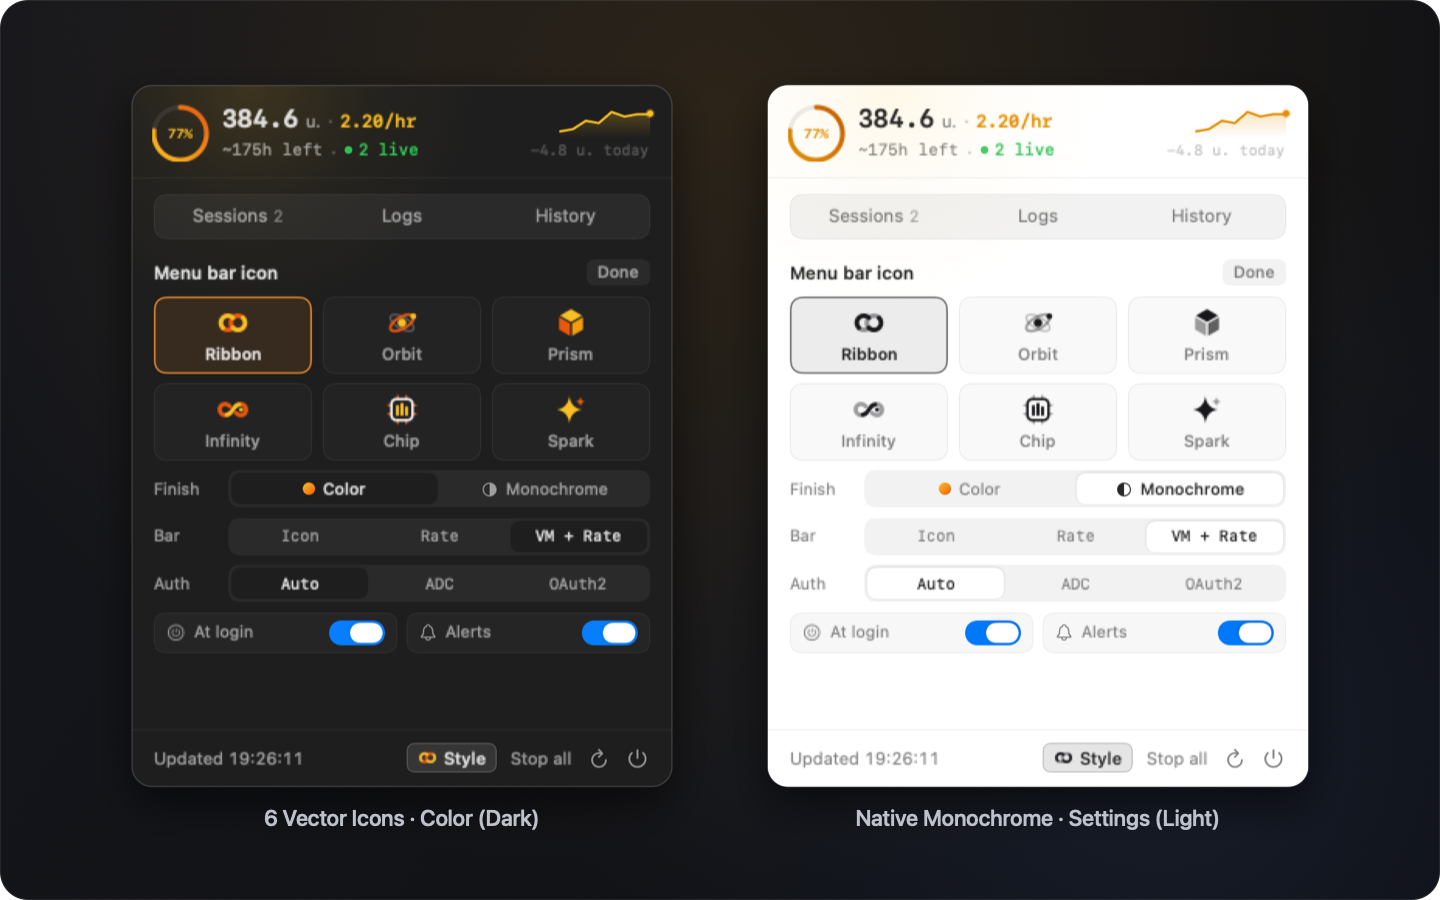
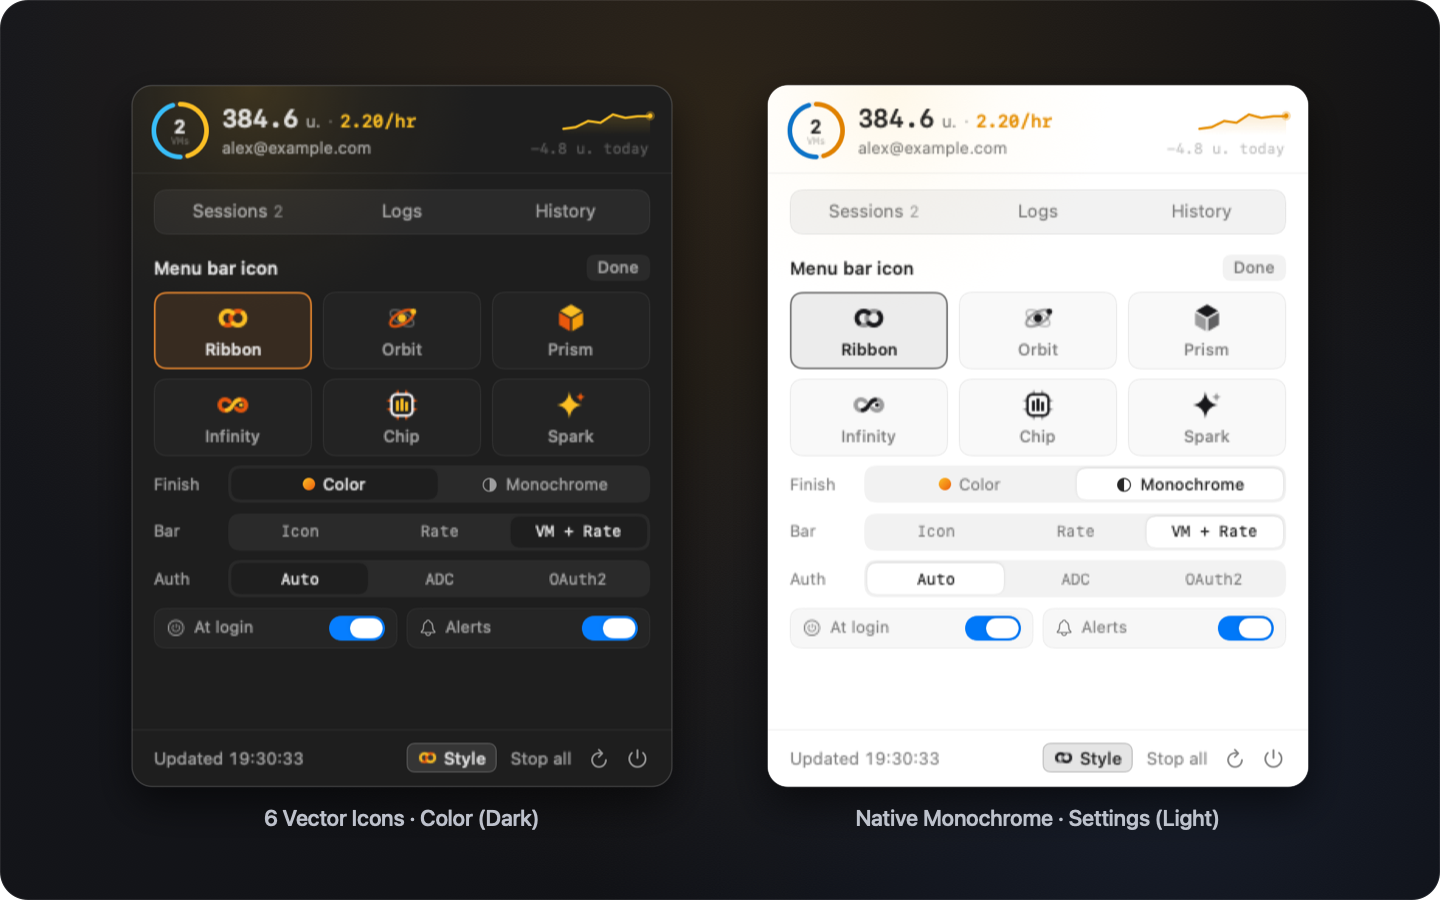
Replace guessed balance % with real segmented active-VM ring and refine sparkline/email layout (v1.2.1)

diff --git a/Sources/ColabMonitor.swift b/Sources/ColabMonitor.swift
@@ -774,18 +774,6 @@ final class MonitorStore: ObservableObject {
         sessions.contains { $0.isGPU }
     }
 
-    var balanceCapacityRef: Double {
-        let peak = max(balance, usageSamples.map(\.balance).max() ?? balance)
-        if peak <= 100 { return 100 }
-        if peak <= 500 { return 500 }
-        return ceil(peak / 500.0) * 500.0
-    }
-
-    var balanceFraction: Double {
-        guard balanceCapacityRef > 0 else { return 0 }
-        return max(0.0, min(1.0, balance / balanceCapacityRef))
-    }
-
     var runwayLabel: String? {
         guard usageRate > 0.01, balance > 0 else { return nil }
         let hours = balance / usageRate
@@ -2037,33 +2025,66 @@ struct LogRowView: View {
     }
 }
 
-// MARK: - Visual Components (Header Ring, Burn Sparkline, Event Timeline Strip)
+// MARK: - Visual Components (Live VM Segmented Ring, Burn Sparkline, Event Timeline Strip)
 
-struct BalanceRingView: View {
-    let fraction: Double
-    let accentColors: [Color]
-    let labelColor: Color
+struct ActiveVMRingView: View {
+    let sessions: [ColabSession]
+    let externalCount: Int
+    let isDark: Bool
+
+    private func colorFor(_ s: ColabSession) -> Color {
+        if s.isIdle { return Color.orange }
+        if s.isGPU {
+            return isDark
+                ? Color(red: 0.984, green: 0.749, blue: 0.141)
+                : Color(red: 0.878, green: 0.510, blue: 0.000)
+        }
+        if s.isHighRAM {
+            return isDark
+                ? Color(red: 0.220, green: 0.741, blue: 0.973)
+                : Color(red: 0.050, green: 0.450, blue: 0.780)
+        }
+        return SyntaxPalette.execAccent
+    }
 
     var body: some View {
-        let clamped = max(0.0, min(1.0, fraction))
-        let pct = Int((clamped * 100.0).rounded())
+        let total = sessions.count
+        let n = max(1, min(total, 6))
+        let gap: CGFloat = total > 1 ? 0.045 : 0.0
+        let span: CGFloat = (1.0 - gap * CGFloat(n)) / CGFloat(n)
 
         ZStack {
             Circle()
                 .stroke(Color.primary.opacity(0.09), lineWidth: 3.0)
-            Circle()
-                .trim(from: 0, to: CGFloat(max(0.03, clamped)))
-                .stroke(
-                    LinearGradient(colors: accentColors, startPoint: .topLeading, endPoint: .bottomTrailing),
-                    style: StrokeStyle(lineWidth: 3.0, lineCap: .round)
-                )
-                .rotationEffect(.degrees(-90))
-            Text("\(pct)%")
-                .font(.system(size: 8.5, weight: .semibold, design: .monospaced))
-                .monospacedDigit()
-                .foregroundStyle(labelColor)
+
+            if total > 0 {
+                ForEach(0..<n, id: \.self) { idx in
+                    let start = CGFloat(idx) * (span + gap)
+                    let end = start + span
+                    Circle()
+                        .trim(from: start, to: end)
+                        .stroke(
+                            colorFor(sessions[idx]),
+                            style: StrokeStyle(lineWidth: 3.0, lineCap: .round)
+                        )
+                        .rotationEffect(.degrees(-90))
+                }
+            }
+
+            VStack(spacing: -1.5) {
+                Text("\(total)")
+                    .font(.system(size: 12, weight: .bold, design: .monospaced))
+                    .monospacedDigit()
+                    .foregroundStyle(total == 0 ? .secondary : .primary)
+                Text(total == 1 ? "VM" : "VMs")
+                    .font(.system(size: 6.5, weight: .medium, design: .monospaced))
+                    .foregroundStyle(.tertiary)
+            }
         }
         .frame(width: 34, height: 34)
+        .help(total == 0
+              ? (externalCount > 0 ? "\(externalCount) browser session(s) outside CLI" : "No active CLI VMs")
+              : "\(total) active CLI VM\(total > 1 ? "s" : "")")
     }
 }
 
@@ -2076,12 +2097,23 @@ struct BurnSparklineView: View {
             let w = geo.size.width
             let h = geo.size.height
             let pts = values.count >= 2 ? values : [0.0, 0.0]
-            let maxVal = max(0.25, pts.max() ?? 0.25)
+            let hi = pts.max() ?? 0.0
+            let lo = pts.min() ?? 0.0
+            let isFlat = abs(hi - lo) < 0.01
+            let maxVal = max(0.5, hi * 1.35)
             let stepX = w / CGFloat(max(1, pts.count - 1))
 
             let coords: [CGPoint] = pts.enumerated().map { idx, val in
                 let x = CGFloat(idx) * stepX
-                let norm = max(0.0, min(1.0, val / maxVal))
+                let norm: Double
+                if val <= 0.001 {
+                    norm = 0.0
+                } else if isFlat {
+                    // Sit gracefully mid-height when rate has been steady since launch
+                    norm = 0.48
+                } else {
+                    norm = max(0.08, min(0.95, val / maxVal))
+                }
                 let y = h - 3.0 - CGFloat(norm) * (h - 6.0)
                 return CGPoint(x: x, y: y)
             }
@@ -2097,7 +2129,7 @@ struct BurnSparklineView: View {
                 }
                 .fill(
                     LinearGradient(
-                        colors: [lineColor.opacity(0.28), lineColor.opacity(0.0)],
+                        colors: [lineColor.opacity(isFlat ? 0.16 : 0.26), lineColor.opacity(0.0)],
                         startPoint: .top,
                         endPoint: .bottom
                     )
@@ -2122,7 +2154,7 @@ struct BurnSparklineView: View {
                 }
             }
         }
-        .frame(width: 58, height: 20)
+        .frame(width: 56, height: 20)
     }
 }
 
@@ -2288,12 +2320,11 @@ struct PopoverRootView: View {
         let sparkColor: Color = store.sessions.isEmpty && store.usageRate <= 0.01 ? Color.secondary.opacity(0.55) : primaryAccent
 
         return HStack(alignment: .center, spacing: 10) {
-            BalanceRingView(
-                fraction: store.balanceFraction,
-                accentColors: accentPair,
-                labelColor: store.sessions.isEmpty ? Color.secondary : primaryAccent
+            ActiveVMRingView(
+                sessions: store.sessions,
+                externalCount: store.externalAssignments,
+                isDark: isDark
             )
-            .help(String(format: "%.1f / %.0f compute units", store.balance, store.balanceCapacityRef))
 
             VStack(alignment: .leading, spacing: 2.5) {
                 HStack(alignment: .firstTextBaseline, spacing: 4) {
@@ -2312,38 +2343,20 @@ struct PopoverRootView: View {
                 }
 
                 HStack(spacing: 5) {
-                    if let runway = store.runwayLabel {
-                        Text(runway)
-                            .font(.system(size: 10.5, design: .monospaced))
-                            .foregroundStyle(.secondary)
-                    } else {
-                        Text(store.email)
-                            .font(.system(size: 10.5))
-                            .foregroundStyle(.secondary)
-                            .lineLimit(1)
-                    }
-
-                    if !store.sessions.isEmpty {
-                        Text("·").foregroundStyle(.tertiary)
-                        HStack(spacing: 3.5) {
-                            Circle()
-                                .fill(store.hasIdle ? Color.orange : Color.green.opacity(0.9))
-                                .frame(width: 5, height: 5)
-                            Text("\(store.sessions.count) live")
-                                .font(.system(size: 10.5, weight: .medium, design: .monospaced))
-                                .foregroundStyle(store.hasIdle ? Color.orange : Color.green)
-                        }
-                    }
+                    Text(store.email)
+                        .font(.system(size: 10.5))
+                        .foregroundStyle(.secondary)
+                        .lineLimit(1)
+                        .truncationMode(.middle)
 
                     if store.externalAssignments > 0 {
                         Text("+\(store.externalAssignments) web")
                             .font(.system(size: 10, design: .monospaced))
                             .foregroundStyle(.orange)
+                            .fixedSize()
                     }
                 }
-                .lineLimit(1)
             }
-            .help(store.email)
 
             Spacer(minLength: 4)
 
@@ -2351,12 +2364,13 @@ struct PopoverRootView: View {
                 BurnSparklineView(values: store.sparklineRates, lineColor: sparkColor)
                 Text(store.todaySpentUnits >= 0.05
                      ? String(format: "−%.1f u. today", store.todaySpentUnits)
-                     : store.email)
+                     : (store.runwayLabel ?? "idle"))
                     .font(.system(size: 9.5, design: .monospaced))
                     .foregroundStyle(.tertiary)
+                    .monospacedDigit()
                     .lineLimit(1)
-                    .frame(maxWidth: 88, alignment: .trailing)
             }
+            .fixedSize()
         }
         .padding(.horizontal, 14)
         .padding(.top, 12)

diff --git a/README.md b/README.md
@@ -20,7 +20,7 @@ Keep track of your remote Google Colab GPUs and High-RAM CPUs directly from the 
 
 ## Features
 
-- **Visual Header & Telemetry** — Radial compute-unit gauge, estimated runway (`~175h left`), live burn-rate sparkline + daily spend (`−4.8 u. today`), ambient status glow, and external browser runtime count (`+N web`). Polls every 20s while active and sleeps to 90s when idle.
+- **Visual Header & Telemetry** — Segmented active-VM ring (color-coded per GPU / CPU-HM / IDLE runtime), compute-unit balance & burn rate (`u./hr`), live burn-rate sparkline + daily spend (`−4.8 u. today`), ambient status glow, and external browser runtime count (`+N web`). Polls every 20s while active and sleeps to 90s when idle.
 - **Rich Live Session Cards** — Hardware badges (`GPU` / `CPU-HM` / `CPU`), live status halos, elapsed uptime, 10-bar color-coded event activity strip (`EXEC` / `↑` / `↓`), one-click `SSH` copy, and safe two-step `Stop` / `Stop all` controls.
 - **Smart `IDLE` Detection & Native Alerts** — Cross-checks local `colab exec / install / upload / download` processes so long-running scripts never trigger false `IDLE` warnings, with optional macOS alerts when a VM finishes or stays `IDLE` for 5+ minutes.
 - **Syntax-Highlighted Logs** — Structured log cards with adaptive Dark/Light syntax coloring for Python/shell `EXEC` snippets and semantic file-extension highlighting for `↑ FILE` uploads and `↓ FILE` downloads.
